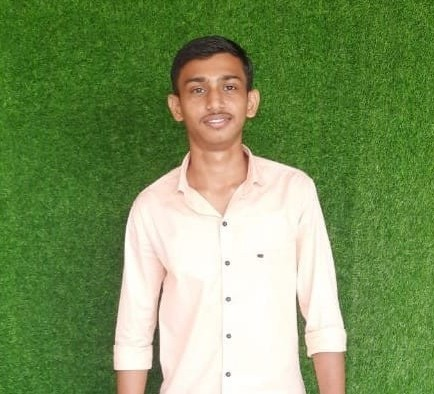
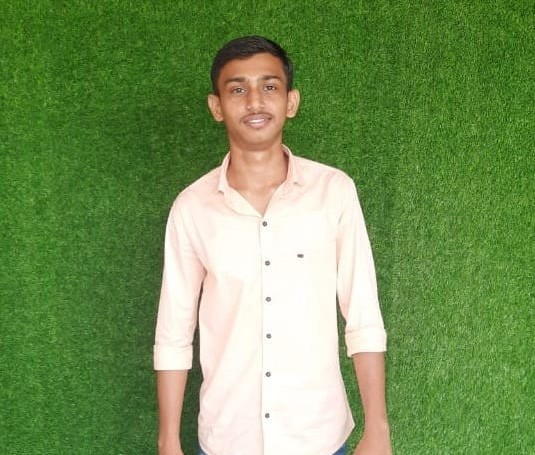
Day-7 Update

diff --git a/index.html b/index.html
@@ -45,7 +45,7 @@
       <div class="home-content">
         <h3>Hi, I am</h3>
         <h1>Pratik Barye</h1>
-        <h3>and I'm a <span>Web Developer</span></h3>
+        <h3>and I'm a <span class="multiple-text"></span></h3>
         <p>
           This is my official portfolio website to showcase my all details. I am
           passionate about building responsive and user-friendly web
@@ -76,14 +76,14 @@
       </div>
 
       <div class="home-img">
-        <img src="assets\images\p2.jpeg" alt="" />
+        <img src="assets/images/p1.jpeg" alt="" />
       </div>
     </section>
 
     <!-- ABOUT SECTION DESIGN  -->
     <section class="about" id="about">
       <div class="about-img">
-        <img src="assets\images\p5.5.jpeg" alt="" />
+        <img src="assets/images/p3.jpeg" alt="" />
       </div>
 
       <div class="about-content">
@@ -127,7 +127,7 @@
 
       <div class="portfolio-container">
         <div class="portfolio-box">
-          <img src="assets\images\1.jpg" alt="" />
+          <img src="assets/images/m1.jpg" alt="" />
 
           <div class="portfolio-layer">
             <h4>Movie Recommendation System</h4>
@@ -150,7 +150,7 @@
         </div>
 
         <div class="portfolio-box">
-          <img src="assets\images\2.jpg" alt="" />
+          <img src="assets/images/t1.jpg" alt="" />
 
           <div class="portfolio-layer">
             <h4>Tour and Travel Website</h4>
@@ -175,14 +175,14 @@
         </div>
 
         <div class="portfolio-box">
-          <img src="assets\images\5.jpg" alt="" />
+          <img src="assets/images/l1.jpg" alt="" />
 
           <div class="portfolio-layer">
             <h4>Learning Resource Website</h4>
             <p>
-              A responsive platform that provides curated learning materials,
-              structured roadmaps, and useful resources for students to enhance
-              their technical skills efficiently.
+              A platform that provides curated learning materials, structured
+              roadmaps, and useful resources for students to enhance their
+              technical skills efficiently.
             </p>
             <a
               href="https://github.com/pratikbarye/Responsive-Learning-Resource-Website-"
@@ -201,7 +201,7 @@
         </div>
 
         <!-- <div class="portfolio-box">
-          <img src="assets\images\4.jpg" alt="" />
+          <img src="assets/images/4.jpg" alt="" />
 
           <div class="portfolio-layer">
             <h4>Web Design</h4>
@@ -221,7 +221,7 @@
         </div>
 
         <div class="portfolio-box">
-          <img src="assets\images\6.jpg" alt="" />
+          <img src="assets/images/6.jpg" alt="" />
 
           <div class="portfolio-layer">
             <h4>Web Design</h4>
@@ -269,6 +269,12 @@
         <a href="#home"><i class="fa-solid fa-angle-up"></i></a>
       </div>
     </footer>
+
+    <!-- SCRIPT REVEAL JS -->
+    <script src="https://unpkg.com/scrollreveal"></script>
+
+    <!-- TYPED JS -->
+    <script src="https://unpkg.com/typed.js@2.1.0/dist/typed.umd.js"></script>
 
     <!-- MAIN JS-->
     <script src="main.js"></script>

diff --git a/main.js b/main.js
@@ -1,0 +1,66 @@
+/* ------------------  Toggle Icon Navbar -------------------- */
+
+let menuIcon = document.querySelector("#menu-icon");
+let navbar = document.querySelector(".navbar");
+
+menuIcon.onclick = () => {
+  menuIcon.classList.toggle("fa-xmark");
+  navbar.classList.toggle("active");
+};
+
+/* ------------------  scroll section active link -------------------- */
+
+let sections = document.querySelectorAll("section");
+let navLinks = document.querySelectorAll("header nav a");
+
+window.onscroll = () => {
+  sections.forEach((sec) => {
+    let top = window.scrollY;
+    let offset = sec.offsetTop - 150;
+    let height = sec.offsetHeight;
+    let id = sec.getAttribute("id");
+
+    if (top >= offset && top < offset + height) {
+      navLinks.forEach((links) => {
+        links.classList.remove("active");
+
+        document
+          .querySelector("header nav a[href*=" + id + "]")
+          .classList.add("active");
+      });
+    }
+  });
+
+  /* ------------------ sticky navbar -------------------- */
+  let header = document.querySelector("header");
+  header.classList.toggle("sticky", window.scrollY > 100);
+
+  /* ------------------ remove toggle icon and navbar -------------------- */
+  menuIcon.classList.remove("fa-xmark");
+  navbar.classList.remove("active");
+};
+
+/* ===================== scroll reveal ===================== */
+
+ScrollReveal({
+  distance: "80px",
+  duration: 2000,
+  delay: 200,
+});
+
+ScrollReveal().reveal(".home-content, .heading", { origin: "top" });
+ScrollReveal().reveal(
+  ".home-img, .skill-container, .portfolio-box, .contact form",
+  { origin: "bottom" }
+);
+ScrollReveal().reveal(".home-content h1, .about-img", { origin: "left" });
+ScrollReveal().reveal(".home-content p, .about-content", { origin: "right" });
+/* ===================== typed js ===================== */
+
+const typed = new Typed(".multiple-text", {
+  strings: ["Frontend Developer", "C++ Programmer"],
+  typeSpeed: 35,
+  backSpeed: 35,
+  backDelay: 1000,
+  loop: true,
+});

diff --git a/style.css b/style.css
@@ -51,6 +51,10 @@ section {
   /* border-bottom: 2px solid rgba(9, 87, 87, 0.3); */
 }
 
+.header.sticky {
+  border-bottom: 0.1rem solid rgba(0, 0, 0, 0.2);
+}
+
 .logo {
   font-size: 3.2rem;
   color: var(--text-color);
@@ -228,7 +232,7 @@ span {
   color: var(--snd-bg-color);
   padding: 1rem 2.8rem;
   border-radius: 5rem;
-  font-size: 1.8rem;
+  font-size: 1.9rem;
   transition: 0.3s ease;
 }
 
@@ -321,6 +325,7 @@ span {
   background-color: #7ec8e1;
 }
 
+/* CONTACT SECTION CSS CODE */
 .contact h2 {
   margin-bottom: 3rem;
 }
@@ -411,7 +416,6 @@ span {
   }
   .skill-container h3 {
     padding: 0.7rem 1.6rem;
-    font-size: 1.8rem;
   }
 }
 
@@ -447,6 +451,27 @@ span {
 @media (max-width: 768px) {
   #menu-icon {
     display: block;
+  }
+  .navbar {
+    position: absolute;
+    top: 100%;
+    left: 0;
+    width: 100%;
+    padding: 1rem 3%;
+    background: var(--bg-color);
+    border-top: 0.1rem solid rgba(0, 0, 0, 0.2);
+    box-shadow: 0 0.5rem 1rem rgba(0, 0, 0, 0.2);
+    display: none;
+  }
+
+  .navbar.active {
+    display: block;
+  }
+
+  .navbar a {
+    display: block;
+    font-size: 2rem;
+    margin: 3rem 0;
   }
 
   .home {
@@ -511,5 +536,11 @@ span {
 
   .contact form .input-box input {
     width: 100%;
+  }
+}
+
+@media (min-width: 769px) and (max-width: 1272px) {
+  .portfolio-container {
+    grid-template-columns: repeat(2, 1fr);
   }
 }
